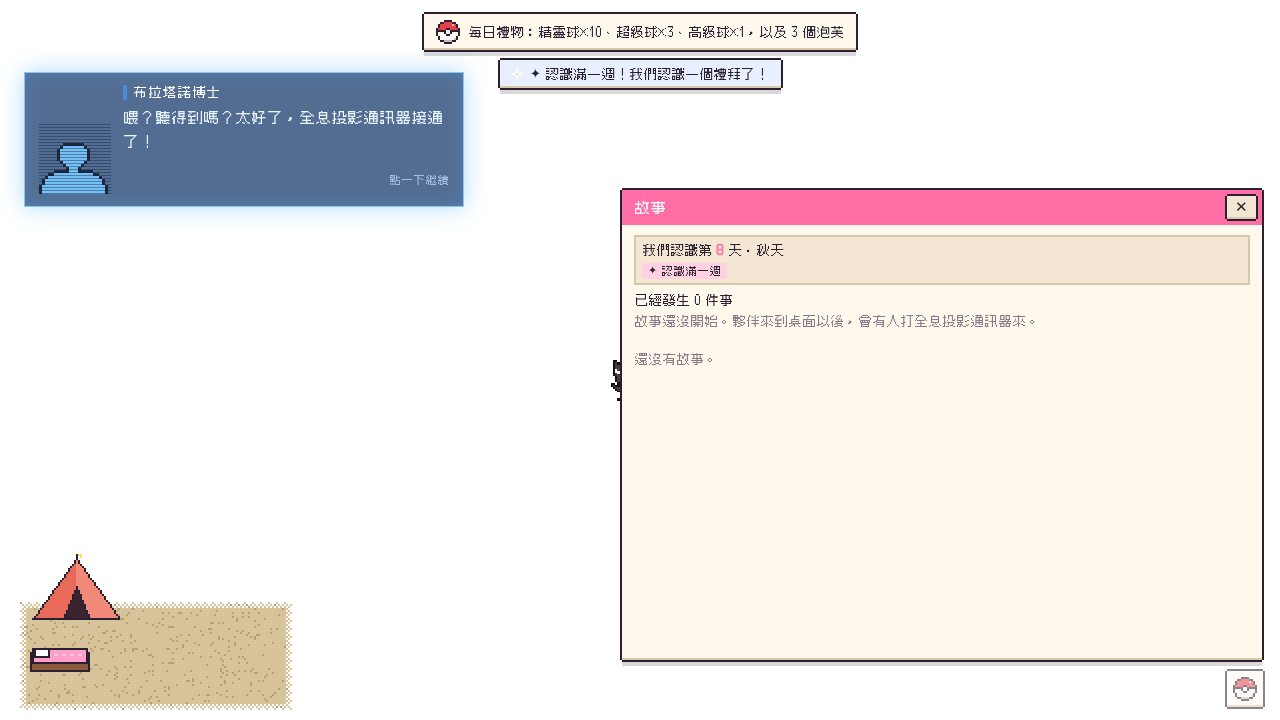
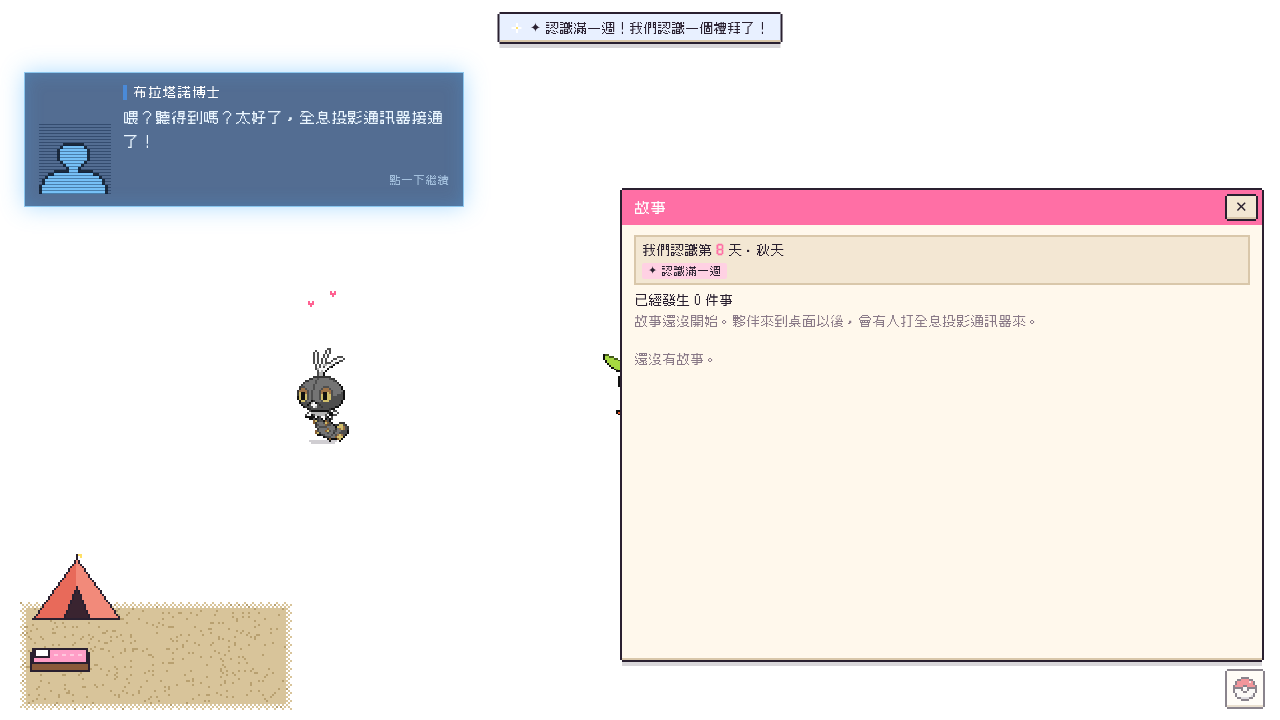
壓力大：最親近的那隻正在跟別隻玩也先放下，過來陪你
Claude-Session: https://claude.ai/code/session_01FsTV8URmaD7nbGy2DHzd2C

Changed region(s): [[0.3125, 0.0, 0.6875, 0.1528], [0.2188, 0.4889, 0.2812, 0.6111], [0.4688, 0.4889, 0.5, 0.55]]

diff --git a/src/renderer/director.js b/src/renderer/director.js
@@ -177,7 +177,7 @@ export class Director {
       if (!st.pointer.known || st.pointerStill < 8 || [...st.pets.values()].some(p => p.state === 'cursorSit')) return;
       // 最親近的那隻（正在忙的就等下一次）
       const p = [...st.pets.values()].filter(q => !q.leaving && !q.perch && !q.inBattle).sort((a, b) => b.mon.affection - a.mon.affection)[0];
-      if (p?.free && !p.partner) { p.cursorSit = { seated: false, side: null }; p.set('cursorSit', 60); this.companion = p.uid; }
+      if (p?.free) { p.endPlay(); p.cursorSit = { seated: false, side: null }; p.set('cursorSit', 60); this.companion = p.uid; } // 正在跟別隻玩也先放下
     }
   }
 
